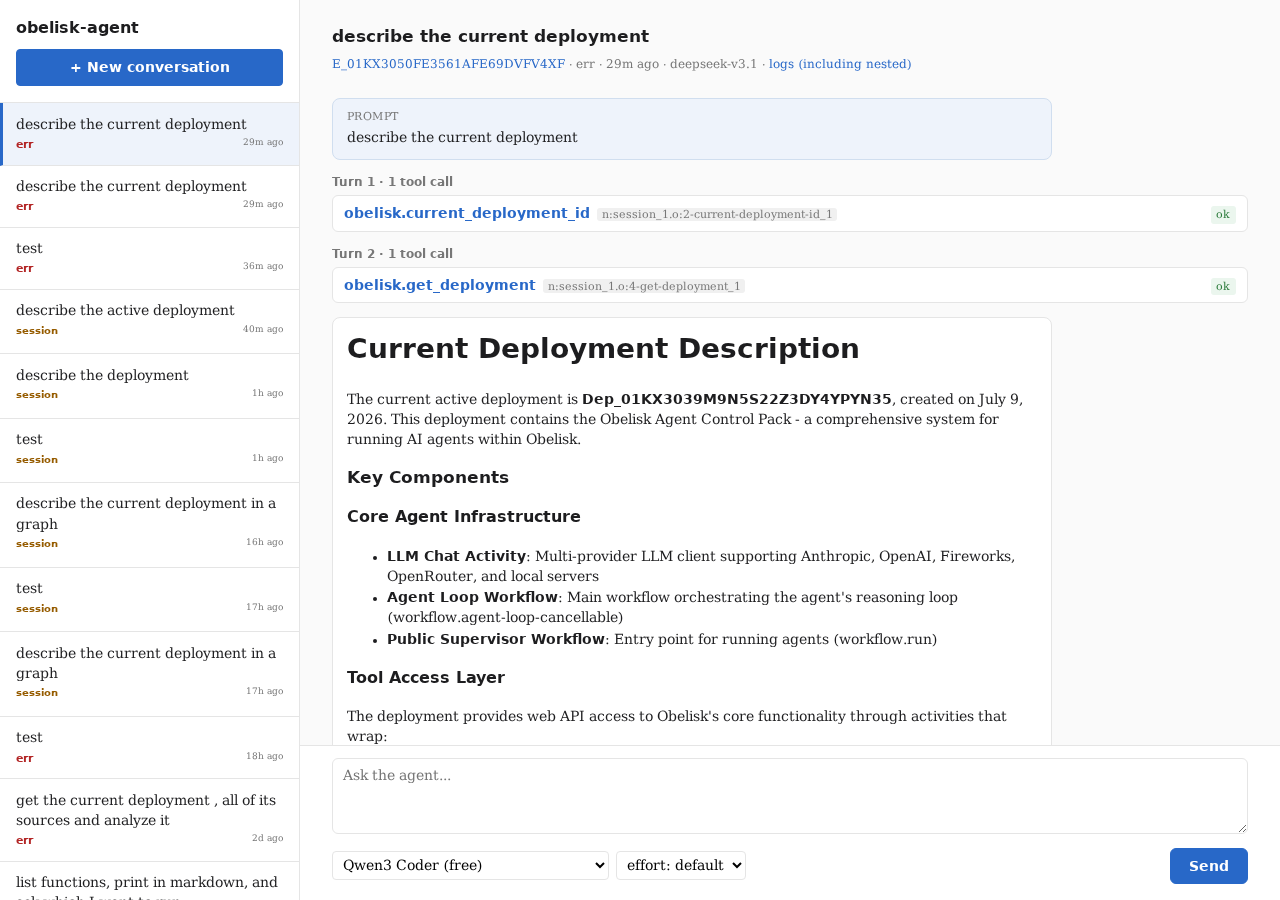
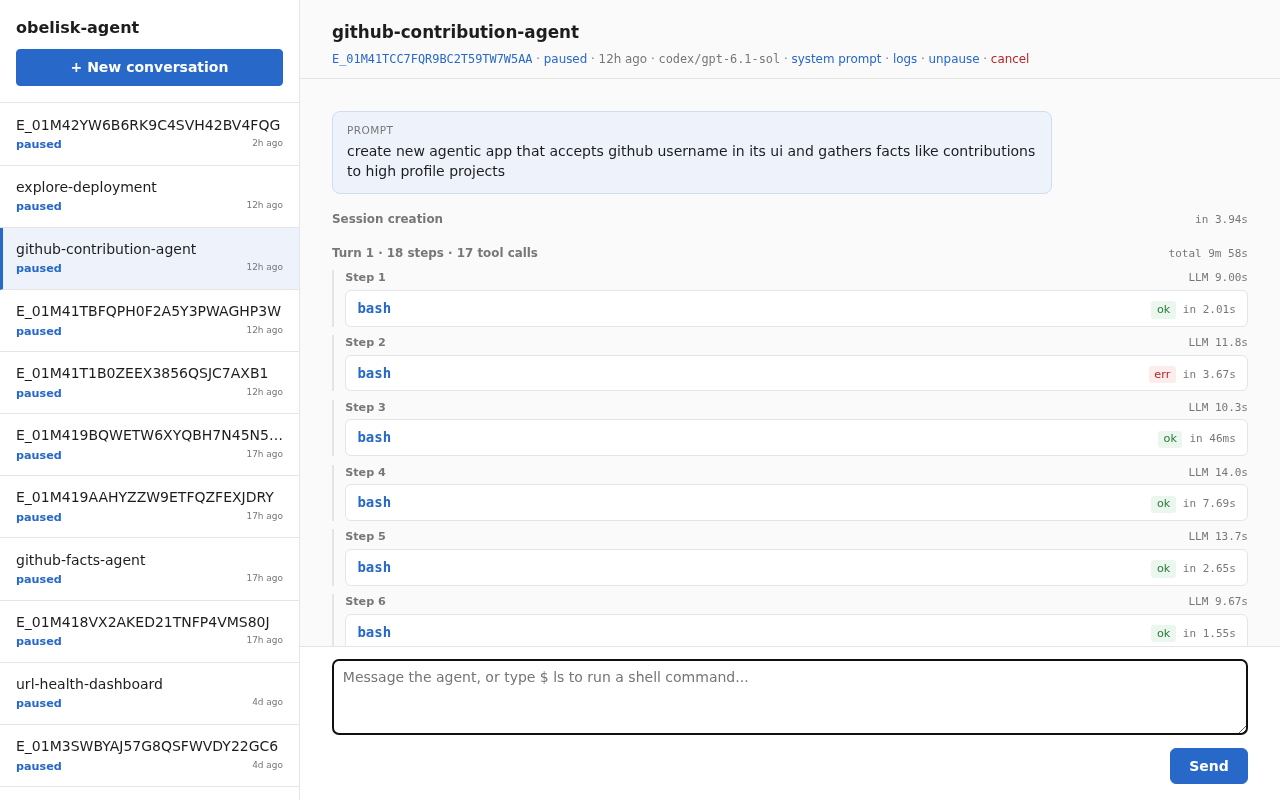
docs: explain durable session architecture

diff --git a/README.md b/README.md
@@ -23,6 +23,32 @@ registry read: `MAX_STEPS`, defaulting to `40`.
 
 ![workflow-agent web UI](docs/workflow-agent.png)
 
+## Architecture
+
+Each chat session is a durable Obelisk execution. The workflow drives a Bash interpreter with a
+virtual filesystem, dispatches tools as child activities, and waits for model responses or user
+input without keeping a dedicated VM alive. Waiting sessions are database rows; the execution log
+reconstructs the workflow and shell state when the session resumes.
+
+![Session workflow, LLM and tool activities, browser UI, and database history](docs/workflow-agent-architecture.svg)
+
+The workflow has two separate implementations: a Rust WASM component in `workflow/workflow-rs`
+and a JavaScript implementation in `workflow/workflow-js`. They export the same function and have
+separate Bash interpreters. Keeping shell output and event ordering identical lets an existing
+session replay across implementations. The JavaScript workflow runs on Boa WASM or native V8,
+selected by the server; the Rust workflow runs in Wasmtime.
+
+Earlier versions kept the full conversation array in the workflow and passed it to every LLM
+activity. Each call persisted that growing prefix again in its `Created` event, duplicating older
+messages and inflating both the workflow's working state and the execution data.
+
+The workflow now handles the latest reply, pending new messages, and the IDs of accepted LLM
+executions, alongside its shell state. The LLM activity rebuilds the conversation through one
+`POST /v1/executions/events/batch` request: each prior child's `Created` event supplies that call's
+new messages, and its `Finished` event supplies the assistant reply. It appends the current delta
+and sends the complete conversation to the model. The workflow does not repeatedly submit the
+full transcript. The batch API preserves request order and reads only these two events per child.
+
 ## Run
 
 Configure the LLM endpoint and an optional fallback catalog; `just serve` depends on `build-rs`,
